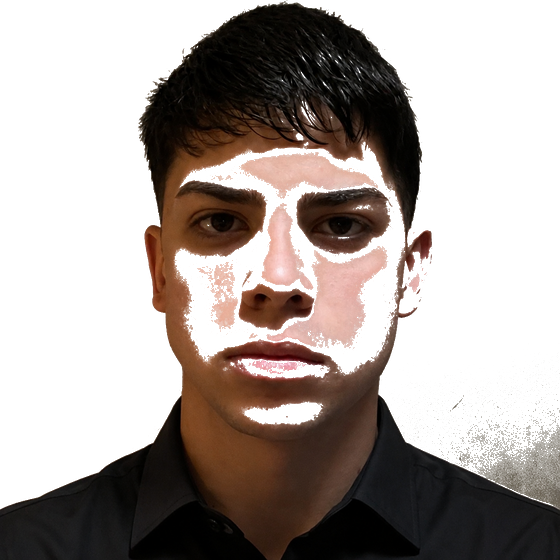
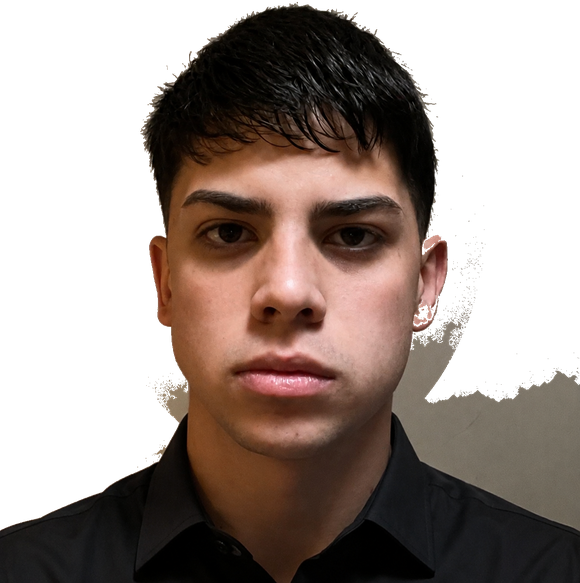
CV en Google Docs PDF y foto hero actualizada.
El boton Descargar CV abre el export PDF de Google Docs; la imagen del hero se reproceso con ?v=2 para refrescar cache en GitHub Pages.

diff --git a/index.html b/index.html
@@ -116,14 +116,14 @@
           <div class="cta">
             <a href="https://wa.me/5492612084544" target="_blank" rel="noopener" class="btn btn-primary btn-liquid">Contactar</a>
             <a href="#proyectos" class="btn btn-secondary btn-liquid">Ver proyectos</a>
-            <a href="assets/cv-adrian-fredes.docx" download class="btn btn-ghost btn-liquid" aria-label="Descargar CV">
+            <a href="https://docs.google.com/document/d/1ppJx907LDo3lRi8CAlIeSX9OZOuEOADIYVYPg5d_hYA/export?format=pdf" target="_blank" rel="noopener noreferrer" class="btn btn-ghost btn-liquid" aria-label="Descargar CV (PDF)">
               Descargar CV
             </a>
           </div>
         </div>
         <div class="hero-image-wrapper">
           <div class="hero-image-3d">
-            <img src="assets/hero-adrian.png?v=1" alt="Adrián Fredes" class="hero-photo" decoding="async" fetchpriority="high">
+            <img src="assets/hero-adrian.png?v=2" alt="Adrián Fredes" class="hero-photo" decoding="async" fetchpriority="high">
           </div>
         </div>
       </div>
